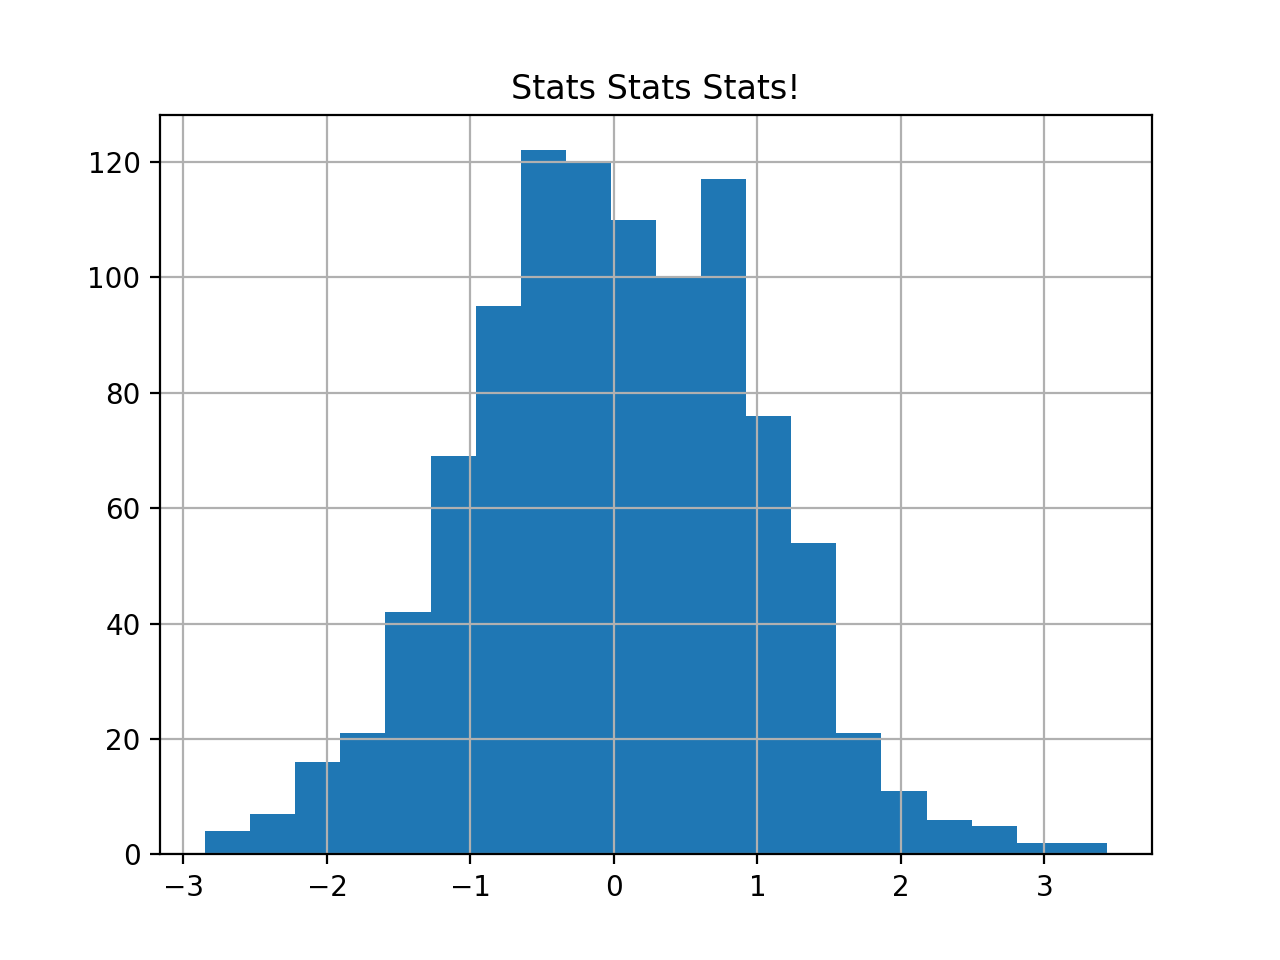
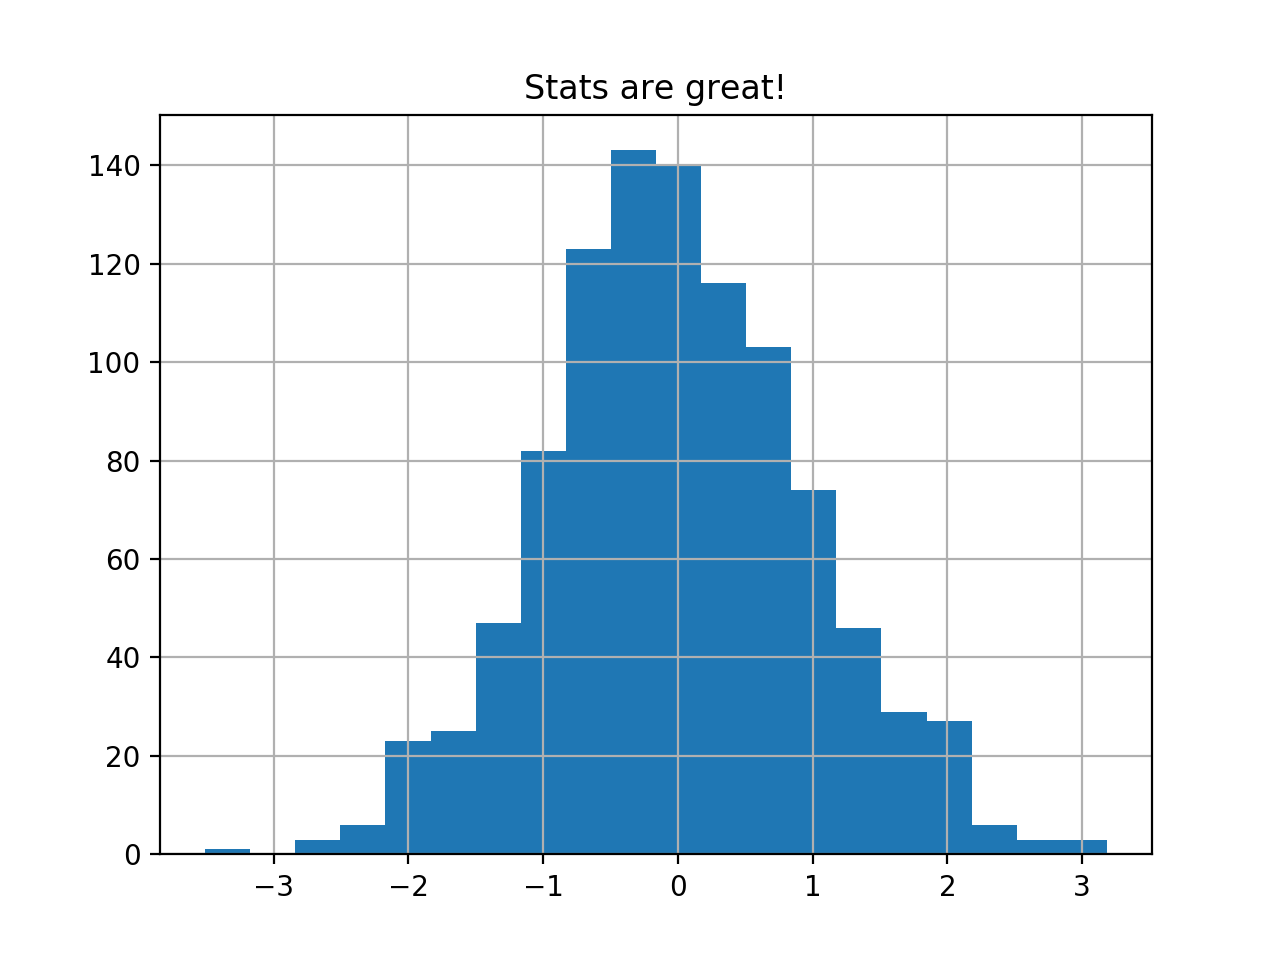
Generated gh-pages for commit 0297f25 Author: jerichooconnell <jericho.oconnell@gmail.com>
building and pushing docs

diff --git a/searchindex.js b/searchindex.js
@@ -1,1 +1,1 @@
-Search.setIndex({docnames:["includeme","index"],envversion:52,filenames:["includeme.rst","index.rst"],objects:{"ppmpy.ppm":{L_H_L_He_comparison:[0,1,1,""],analyse_dump:[0,1,1,""],bucket_map:[0,1,1,""],compare_entrained_material:[0,1,1,""],energy_comparison:[0,1,1,""],get_N2:[0,1,1,""],get_avg_rms_velocities:[0,1,1,""],get_heat_source:[0,1,1,""],get_mach_number:[0,1,1,""],get_mesa_time_evo:[0,1,1,""],get_p_top:[0,1,1,""],get_power_spectrum_RProfile:[0,1,1,""],get_r_int:[0,1,1,""],get_upper_bound:[0,1,1,""],get_v_evolution:[0,1,1,""],luminosity_for_dump:[0,1,1,""],make_colourmap:[0,1,1,""],plot_Mollweide:[0,1,1,""],plot_N2:[0,1,1,""],plot_boundary_evolution:[0,1,1,""],plot_diffusion_profiles:[0,1,1,""],plot_entr_v_ut:[0,1,1,""],plot_luminosity:[0,1,1,""],plot_mach_number:[0,1,1,""],plot_mesa_time_evo:[0,1,1,""],plot_p_top:[0,1,1,""],plot_power_spectrum_RProfile:[0,1,1,""],prep_Yprofile_data:[0,1,1,""],prof_compare:[0,1,1,""],set_YProf_path:[0,1,1,""],upper_bound_ut:[0,1,1,""],v_evolution:[0,1,1,""],yprofile:[0,2,1,""]},"ppmpy.ppm.yprofile":{Aprof_time:[0,3,1,""],Dinv:[0,3,1,""],Dov2:[0,3,1,""],Dov:[0,3,1,""],Dsolve:[0,3,1,""],Dsolvedown:[0,3,1,""],Dsolvedownexp:[0,3,1,""],Richardson_plot:[0,3,1,""],findFile:[0,3,1,""],get:[0,3,1,""],getCattrs:[0,3,1,""],getColData:[0,3,1,""],getCycleData:[0,3,1,""],getDCols:[0,3,1,""],getHattrs:[0,3,1,""],getHeaderData:[0,3,1,""],get_mass_fraction:[0,3,1,""],ndumpDict:[0,3,1,""],plot_entrainment_rates:[0,3,1,""],prof_time:[0,3,1,""],readTop:[0,3,1,""],tEkmax:[0,3,1,""],tvmax:[0,3,1,""],vaverage:[0,3,1,""],vprof_time:[0,3,1,""],vprofs:[0,3,1,""]},ppmpy:{ppm:[0,0,0,"-"]}},objnames:{"0":["py","module","Python module"],"1":["py","function","Python function"],"2":["py","class","Python class"],"3":["py","method","Python method"]},objtypes:{"0":"py:module","1":"py:function","2":"py:class","3":"py:method"},terms:{"00000e":0,"0420099999999999e":0,"0th":0,"0z1":0,"1146379199999996e":0,"17400e":0,"2017mnra":0,"2991j":0,"4816300000000004e":0,"50000e":0,"5829245098141646e":0,"61400e":0,"66054e":0,"69600e":0,"95450e":0,"boolean":0,"break":0,"case":0,"class":0,"default":0,"final":0,"float":0,"function":0,"import":0,"int":0,"new":0,"return":0,"transient":0,"true":0,ADS:0,Are:0,For:0,RMS:0,The:[0,1],There:0,These:1,Use:0,_cycl:0,abl:0,about:0,abov:0,abs:0,abund:0,access:[0,1],account:0,act:0,action:1,add:0,addit:0,adsab:0,advantag:1,after:0,against:0,agb:0,agbtp_m2:0,age:0,agearr:0,airmu:0,all:0,alpha:0,also:0,amount:0,amu:0,analys:[0,1],analyse_dump:0,analyz:0,andrassi:0,ani:[0,1],appli:0,appropri:0,approx_d:0,approxim:0,aprof_tim:0,area:0,argument:0,around:0,arrai:0,ascii:1,aslo:0,aspect:0,associ:0,assum:0,assumpt:1,atomicnoair:0,atomicnocld:0,atri:0,attri:0,attribut:1,automat:0,avail:1,averag:0,avg_r_int:0,avg_r_ub:0,axes:0,axi:0,base:[0,1],basemap:0,becaus:0,been:[0,1],befor:0,begin:0,below:0,between:0,blank:0,block:0,bluewat:0,bobaaa:0,bool:0,both:[0,1],bottom:0,boundari:0,brunt:0,bucket:0,bucket_map:0,bug:0,burn:0,burnt:0,calcul:0,can:[0,1],cant:0,cattri:0,center:0,certain:0,choic:0,choos:0,chose:0,cldmu:0,closest:0,cmap:0,code:1,coeffici:0,col:0,collabor:1,collaps:0,colon:0,color:0,colorbarbas:0,colormap:0,colour:0,colourbarbas:0,column:0,come:0,comma:0,commun:1,comp:0,compar:0,compare_entrained_materi:0,compon:0,compress:0,compressible_fluid:0,comput:0,condit:0,constant:0,contain:[0,1],content:1,contour:0,conv:0,convect:0,converg:0,core:0,correspond:0,could:0,creat:0,criterion:0,cyc:0,cycl:0,d10:0,d15:0,d20:0,d23:0,dash:0,data:0,data_path:0,datalist:0,davi:0,dcol:0,debug:0,decai:0,declin:0,defalut:0,defin:0,degre:0,depend:0,deriv:0,design:0,desir:0,desird:0,determin:0,develop:1,dictionari:0,differ:0,diffus:0,dinv:0,dir:0,directori:[0,1],discret:0,displai:0,dlayerbot:0,dlim:0,do_plot:0,domain:0,done:0,dov2:0,dov:0,draw:0,drawn:0,dsolv:0,dsolve_rang:0,dsolvedown:0,dsolvedownexp:0,due:0,dump1:0,dump2:0,dump:0,dump_max:0,dump_min:0,dump_to_plot:0,dure:0,dut:0,dutdr:0,dynam:0,each:0,ect:0,edu:0,ekmax:0,ekxzhhemax:0,els:0,email:0,endpoint:0,energi:0,energy_comparison:0,enforc:0,entrain:0,entri:0,enu:0,enuc:0,eppm:0,equal:0,equat:0,erg:0,error:0,estim:0,esur:0,even:0,everi:0,evolut:[0,1],examin:0,exampl:[0,1],exce:0,except:0,exclud:0,exp:0,explicit:0,explos:0,exponenti:0,extra:0,fals:0,feedback:1,few:0,fherwig:0,fifth:0,fig:0,figur:0,file:1,file_nam:0,filelist:0,filenam:0,filename_offset:0,filenamem:0,filepath:0,find:0,findfil:0,first:0,first_dump:0,fit:0,fit_bound:0,five:0,fix:0,fkair:0,fkcld:0,fluctuat:0,fluid:0,fname1:0,fname2:0,fname:0,fname_typ:0,fold:0,follow:0,form:0,format:[0,1],formula:0,found:0,foundat:1,four:0,fourth:0,fraction:0,frequenc:0,from:[0,1],full:0,futur:1,fvaverag:0,fvconv:0,gamma:0,gas:0,gener:0,geometri:0,get:0,get_avg_rms_veloc:0,get_heat_sourc:0,get_mach_numb:0,get_mass_fract:0,get_mesa_time_evo:0,get_n2:0,get_p_top:0,get_power_spectrum_rprofil:0,get_r_int:0,get_t:0,get_upper_bound:0,get_v_evolut:0,getcattr:0,getcoldata:0,getcycledata:0,getdcol:0,gethattr:0,getheaderdata:0,give:0,given:0,global:0,good:0,gosh:0,gradient:0,graviti:0,grid:0,harmon:0,harvard:0,has:[0,1],hattri:0,have:0,hdf5:1,head:0,header:1,heat:0,here:0,herwig:0,hist_dump_max:0,hist_dump_min:0,histogram:0,hold:0,horizont:0,how:0,http:0,humboldt:1,hydrodynam:0,ideal:0,ifig0:0,ifig:0,imag:0,includ:[0,1],incompress:0,index:[0,1],indic:0,inform:0,initi:0,initial_conv_boundari:0,input:[0,1],insert:0,insid:1,instanc:0,integ:0,integrate_both_fluid:0,interact:[0,1],interfac:0,intermitt:0,interpret:0,interv:0,invalid:0,invers:0,invert:0,inward:0,ipython:1,iter:0,its:[0,1],j55:0,jina:1,jone:0,just:0,kei:0,kinet:0,kwarg:0,l_h:0,l_h_l_he_comparison:0,l_h_rp:0,l_h_yp:0,l_he:0,l_max:0,label:0,label_cas:0,larger:0,largest:0,last:0,last_dump:0,length:0,like:0,lim:0,limit:0,lims1:0,lims2:0,lims_insert:0,line:0,linelim:0,linestyl:0,link:0,list:0,load:0,local:0,locat:0,log:[0,1],log_log:0,log_x:0,logarithm:0,logi:0,logic:0,logri_level:0,logs_n2b:0,loke:0,look:0,loss:0,lower:0,lowest:0,ls_offset:0,lsun:0,ltlarr:0,luminos:0,luminosity_for_dump:0,m25:0,m25z0:0,ma_max:0,mach:0,made:[0,1],mai:0,maintain:1,make:0,make_colourmap:0,mani:0,mark:0,markeveri:0,mass:0,match:0,materi:0,matplotlib:0,max:0,maximum:0,mean:0,measur:0,meb:0,member:1,mesa:[0,1],mesa_a_model_num:0,mesa_b_model_num:0,mesa_log:0,mesa_logs_path:0,mesa_model:0,mesa_path:0,mesa_profil:0,method:0,metric:0,middl:0,mimic:0,min:0,mind:1,minimum:0,minut:0,mix:0,mode:1,model:0,modul:[0,1],molecular:0,mollweid:0,monoton:0,more:0,most:0,mpl_toolkit:0,mppnp:1,muarr:0,multipl:0,must:0,n13:0,name:0,nasa:0,ncycl:0,ndump:0,ndumpdict:0,necessari:0,need:0,neg:0,neutrino:0,newton:0,next:0,niter:0,nois:0,none:0,normalis:0,note:0,notebook:1,nserc:1,nuclear:0,nugrid:[0,1],nugridpi:1,num:0,num_typ:0,number:0,numer:0,nump:0,numtyp:0,nunmber:0,object:0,off:0,offset:0,onc:0,one:0,onli:0,onset:0,open:0,option:0,ordin:0,orient:0,other:0,ouput_dir:0,out:1,output:[0,1],output_dir:0,over:0,oxygen:0,p_top:0,packag:[0,1],page:[0,1],paper:0,param:0,paramet:0,part:1,particular:1,pass:0,path:0,path_to_data:0,paul:0,pdf:0,peak:0,peakepsgravarr:0,peakl_lsunarr:0,peaklarr:0,place:0,pleas:0,plot:[0,1],plot_boundary_evolut:0,plot_diffusion_profil:0,plot_dlt0:0,plot_entr_v_ut:0,plot_entrainment_r:0,plot_luminos:0,plot_mach_numb:0,plot_mesa_time_evo:0,plot_mollweid:0,plot_n2:0,plot_p_top:0,plot_power_spectrum_rprofil:0,plot_typ:0,point:0,possabl:0,possibl:1,power:0,ppm:1,ppm_path:0,ppm_rpod2:0,ppmpy:0,ppmstar:0,ppn:1,preced:0,prefer:0,prefix:0,prep_yprofile_data:0,present:0,previou:0,principl:1,print:0,privat:0,produc:0,prof:0,prof_compar:0,prof_tim:0,profil:0,project:0,put:0,python:[0,1],quantiti:0,r_int:0,r_low:0,r_ref:0,r_top:0,r_ub:0,rad:0,radbas:0,radial:0,radii:0,radiu:0,radtop:0,rai:0,rang:0,range_conv1:0,range_conv2:0,raphson:0,rate:0,rbotarr:0,read:0,readtop:0,refer:0,refin:0,region:0,rel:0,remov:0,resolut:0,respect:0,returni:0,rgb:0,rho1:0,rho:0,richardson:0,richardson_plot:0,robust:0,routin:0,row:0,rp_set:0,rpod2:0,rpod3:0,rprof_path:0,rprofil:0,rprofile_set:0,rtop:0,rtoparr:0,run1:0,run2:0,run:0,runs_data:0,runs_dir:0,runthrough:0,sak:0,sak_a1:0,sakurai:0,same:0,sandalski:0,save:0,scale:0,search:[0,1],second:0,section:0,see:0,seen:0,select:0,sensit:0,separ:0,seper:0,sequenti:0,server:1,session:[0,1],set:0,set_yprof_path:0,setup:0,sever:0,shade:0,shell:0,should:0,show:0,show_fit:0,showfig:0,sigma:0,sigmam_r_int:0,sigmam_r_ub:0,sigmap_r_int:0,sigmap_r_ub:0,sign:0,silent:0,simpl:0,simpli:0,simul:0,singl:0,sinusoidal_fv:0,sixth:0,size:0,sldir:0,smaller:0,smooth:0,solut:0,solv:0,some:0,space:0,spars:0,spatial:0,speci:0,specif:0,specifi:0,spectra:0,speric:0,spheric:0,spline:0,squar:0,stabil:0,stamp:0,start:0,stddir:0,steepest:0,stellar:[0,1],stellar_model:0,step:0,stop:0,stratif:0,string:0,structur:0,stuff:0,style:0,sub:0,subplot:0,subpolot:0,support:1,suppress:0,swj:0,t_end:0,t_fit_start:0,t_lim:0,t_max:0,t_min:0,t_re:0,take:[0,1],taken:0,tangenti:0,tau:0,tauconv:0,tekmax:0,than:0,them:0,thermal:0,thesi:0,thi:0,thick:0,thing:0,third:0,three:0,threshold:0,through:1,thu:0,tick:0,time:0,timescal:0,titl:0,too:0,tool:1,top:0,tot:0,total:0,totallum:0,track:0,trade:0,transit:0,trescal:0,tri:1,tupl:0,turbul:0,turn:0,turnov:0,tvmax:0,two:0,txt:0,type:0,typic:0,unburnt:0,uniqu:0,unit:0,until:0,upper:0,upper_bound_ut:0,use:0,used:[0,1],user:0,uses:1,using:0,usual:0,util:0,uyconv:0,v_evolut:0,v_tot:0,v_xz:0,v_y:0,vaisala:0,valu:0,vanish:0,variabl:0,variou:[0,1],vaverag:0,vector:0,vel:0,veloc:0,veloctii:0,version:0,vertic:0,vicin:0,vltp_0:0,vltp_mesa_m0:0,vmax:0,vmin:0,vospac:0,vprof:0,vprof_tim:0,vr_max:0,vxz:0,wai:0,want:0,web:1,weight:0,welcom:1,well:0,wendi:1,were:[0,1],what:0,when:0,where:0,whether:0,which:0,which_to_plot:0,whole:0,width:0,window:0,wish:0,within:0,without:0,woodward:0,word:0,work:[0,1],would:0,write:1,written:1,xlim:0,xmax:0,xmin:0,xthing:0,xxxx:0,y_profil:0,yaxis_th:0,ylim:0,ylim_max:0,ymax:0,ymin:0,you:0,yp1:0,yp2:0,yprof:0,yprof_fnam:0,yprof_path:0,yprofil:1,yps:0,yrs:0,yy2:0,zone:0,zoom:0},titles:["PPM","PyPPM"],titleterms:{assumpt:0,attribut:0,file:0,header:0,indic:1,ppm:0,pyppm:1,tabl:1,yprofil:0}})
+Search.setIndex({docnames:["includeme","index"],envversion:52,filenames:["includeme.rst","index.rst"],objects:{"ppmpy.ppm":{L_H_L_He_comparison:[0,1,1,""],analyse_dump:[0,1,1,""],bucket_map:[0,1,1,""],compare_entrained_material:[0,1,1,""],energy_comparison:[0,1,1,""],get_N2:[0,1,1,""],get_avg_rms_velocities:[0,1,1,""],get_heat_source:[0,1,1,""],get_mach_number:[0,1,1,""],get_mesa_time_evo:[0,1,1,""],get_p_top:[0,1,1,""],get_power_spectrum_RProfile:[0,1,1,""],get_r_int:[0,1,1,""],get_upper_bound:[0,1,1,""],get_v_evolution:[0,1,1,""],luminosity_for_dump:[0,1,1,""],make_colourmap:[0,1,1,""],plot_Mollweide:[0,1,1,""],plot_N2:[0,1,1,""],plot_boundary_evolution:[0,1,1,""],plot_diffusion_profiles:[0,1,1,""],plot_entr_v_ut:[0,1,1,""],plot_luminosity:[0,1,1,""],plot_mach_number:[0,1,1,""],plot_mesa_time_evo:[0,1,1,""],plot_p_top:[0,1,1,""],plot_power_spectrum_RProfile:[0,1,1,""],prep_Yprofile_data:[0,1,1,""],prof_compare:[0,1,1,""],set_YProf_path:[0,1,1,""],upper_bound_ut:[0,1,1,""],v_evolution:[0,1,1,""],yprofile:[0,2,1,""]},"ppmpy.ppm.yprofile":{Aprof_time:[0,3,1,""],Dinv:[0,3,1,""],Dov2:[0,3,1,""],Dov:[0,3,1,""],Dsolve:[0,3,1,""],Dsolvedown:[0,3,1,""],Dsolvedownexp:[0,3,1,""],Richardson_plot:[0,3,1,""],findFile:[0,3,1,""],get:[0,3,1,""],getCattrs:[0,3,1,""],getColData:[0,3,1,""],getCycleData:[0,3,1,""],getDCols:[0,3,1,""],getHattrs:[0,3,1,""],getHeaderData:[0,3,1,""],get_mass_fraction:[0,3,1,""],ndumpDict:[0,3,1,""],plot_entrainment_rates:[0,3,1,""],prof_time:[0,3,1,""],readTop:[0,3,1,""],tEkmax:[0,3,1,""],tvmax:[0,3,1,""],vaverage:[0,3,1,""],vprof_time:[0,3,1,""],vprofs:[0,3,1,""]},ppmpy:{ppm:[0,0,0,"-"]}},objnames:{"0":["py","module","Python module"],"1":["py","function","Python function"],"2":["py","class","Python class"],"3":["py","method","Python method"]},objtypes:{"0":"py:module","1":"py:function","2":"py:class","3":"py:method"},terms:{"0420099999999999e":0,"0th":0,"0z1":0,"1146379199999996e":0,"2017mnra":0,"2991j":0,"4816300000000004e":0,"5829245098141646e":0,"61400e":0,"66054e":0,"boolean":0,"case":0,"class":0,"default":0,"final":0,"float":0,"function":0,"import":0,"int":0,"new":0,"return":0,"transient":0,"true":0,ADS:0,Are:0,For:0,RMS:0,The:[0,1],These:1,Use:0,_cycl:0,about:0,abov:0,abs:0,abund:0,access:[0,1],account:0,act:0,action:1,add:0,addit:0,adsab:0,advantag:1,against:0,agb:0,agbtp_m2:0,age:0,agearr:0,airmu:0,all:0,alpha:0,also:0,amount:0,amu:0,analys:[0,1],analyse_dump:0,analyz:0,andrassi:0,ani:[0,1],appli:0,appropri:0,approx_d:0,approxim:0,aprof_tim:0,area:0,argument:0,around:0,arrai:0,ascii:1,aspect:0,associ:0,assum:0,assumpt:1,atomicnoair:0,atomicnocld:0,atri:0,attri:0,attribut:0,automat:0,avail:1,averag:0,avg_r_int:0,avg_r_ub:0,axes:0,axi:0,base:[0,1],basemap:0,becaus:0,been:[0,1],begin:0,below:0,between:0,bluewat:0,bobaaa:0,bool:0,both:[0,1],bottom:0,boundari:0,brunt:0,bucket:0,bucket_map:0,bug:0,burn:0,burnt:0,calcul:0,can:[0,1],cattri:0,center:0,certain:0,choic:0,choos:0,chose:0,cldmu:0,closest:0,cmap:0,code:[0,1],coeffici:0,col:0,collabor:1,collaps:0,color:0,colorbarbas:0,colormap:0,colour:0,colourbarbas:0,column:0,commun:1,comp:0,compar:0,compare_entrained_materi:0,compon:0,compress:0,compressible_fluid:0,comput:0,condit:0,constant:0,contain:[0,1],content:1,contour:0,conv:0,convect:0,converg:0,core:0,correspond:0,could:0,creat:0,criterion:0,cyc:0,cycl:0,d10:0,d15:0,d20:0,d23:0,dash:0,data:0,data_path:0,datalist:0,davi:0,dcol:0,debug:0,decai:0,declin:0,defalut:0,defin:0,degre:0,depend:0,deriv:0,design:0,desir:0,desird:0,determin:0,develop:1,dictionari:0,differ:0,diffus:0,dinv:0,dir:0,directori:[0,1],discret:0,displai:0,dlayerbot:0,dlim:0,do_plot:0,domain:0,done:0,dov2:0,dov:0,draw:0,drawn:0,dsolv:0,dsolve_rang:0,dsolvedown:0,dsolvedownexp:0,due:0,dump1:0,dump2:0,dump:0,dump_max:0,dump_min:0,dump_to_plot:0,dure:0,dut:0,dutdr:0,dynam:0,each:0,ect:0,edu:0,ekmax:0,ekxzhhemax:0,els:0,email:0,endpoint:0,energi:0,energy_comparison:0,enforc:0,entrain:0,entri:0,enu:0,enuc:0,eppm:0,equat:0,erg:0,error:0,estim:0,esur:0,even:0,everi:0,evolut:[0,1],examin:0,exampl:[0,1],exce:0,except:0,exclud:0,exp:0,explicit:0,explos:0,exponenti:0,extra:0,fals:0,feedback:1,few:0,fherwig:0,fig:0,figur:0,file:1,file_nam:0,filelist:0,filenam:0,filename_offset:0,filenamem:0,filepath:0,find:0,findfil:0,first_dump:0,fit:0,fit_bound:0,fix:0,fkair:0,fkcld:0,fluctuat:0,fluid:0,fname1:0,fname2:0,fname:0,fname_typ:0,fold:0,format:[0,1],formula:0,found:0,foundat:1,fraction:0,frequenc:0,from:[0,1],full:0,futur:1,fvaverag:0,fvconv:0,gamma:0,gas:0,gener:0,geometri:0,get:0,get_avg_rms_veloc:0,get_heat_sourc:0,get_mach_numb:0,get_mass_fract:0,get_mesa_time_evo:0,get_n2:0,get_p_top:0,get_power_spectrum_rprofil:0,get_r_int:0,get_t:0,get_upper_bound:0,get_v_evolut:0,getcattr:0,getcoldata:0,getcycledata:0,getdcol:0,gethattr:0,getheaderdata:0,give:0,given:0,global:0,good:0,gosh:0,gradient:0,grid:0,harmon:0,harvard:0,has:1,hattri:0,have:0,hdf5:1,head:0,header:0,heat:0,here:0,herwig:0,hire:0,hist_dump_max:0,hist_dump_min:0,histogram:0,hold:0,horizont:0,how:0,http:0,humboldt:1,hydrodynam:0,ideal:0,ifig0:0,ifig:0,imag:0,includ:[0,1],incompress:0,index:[0,1],indic:0,inform:0,initi:0,initial_conv_boundari:0,input:[0,1],insert:0,insid:1,instanc:0,integ:0,integrate_both_fluid:0,interact:[0,1],interfac:0,intermitt:0,interpret:0,interv:0,invalid:0,invers:0,invert:0,inward:0,ipython:1,iter:0,its:1,j55:0,jina:1,jone:0,just:0,kei:0,kinet:0,kwarg:0,l_h:0,l_h_l_he_comparison:0,l_h_rp:0,l_h_yp:0,l_he:0,l_max:0,label:0,label_cas:0,larger:0,largest:0,last:0,last_dump:0,length:0,like:0,lim:0,limit:0,lims1:0,lims2:0,lims_insert:0,line:0,linelim:0,linestyl:0,link:0,list:0,load:0,local:0,locat:0,log:[0,1],log_log:0,log_x:0,logarithm:0,logi:0,logic:0,logri_level:0,logs_n2b:0,loke:0,look:0,loss:0,lower:0,lowest:0,ls_offset:0,lsun:0,ltlarr:0,luminos:0,luminosity_for_dump:0,m25:0,m25z0:0,ma_max:0,mach:0,made:[0,1],mai:0,maintain:1,make:0,make_colourmap:0,mani:0,mark:0,markeveri:0,mass:0,match:0,materi:0,matplotlib:0,max:0,maximum:0,mean:0,meb:0,member:1,mesa:[0,1],mesa_a_model_num:0,mesa_b_model_num:0,mesa_log:0,mesa_logs_path:0,mesa_model:0,mesa_path:0,mesa_profil:0,method:0,metric:0,middl:0,mimic:0,min:0,mind:1,minimum:0,minut:0,mix:0,mode:1,model:0,modul:[0,1],molecular:0,mollweid:0,monoton:0,more:0,most:0,mpl_toolkit:0,mppnp:1,muarr:0,multipl:0,must:0,n13:0,name:0,nasa:0,ncycl:0,ndump:0,ndumpdict:0,necessari:0,need:0,neg:0,neutrino:0,newton:0,niter:0,nois:0,none:0,normalis:0,note:0,notebook:1,nserc:1,nuclear:0,nugrid:[0,1],nugridpi:1,num:0,num_typ:0,number:0,nump:0,numtyp:0,nunmber:0,object:0,off:0,offset:0,onc:0,one:0,onli:0,onset:0,open:0,option:0,ordin:0,orient:0,ouput_dir:0,out:1,output:[0,1],output_dir:0,over:0,oxygen:0,p_top:0,packag:[0,1],page:[0,1],paper:0,param:0,paramet:0,part:1,particular:1,pass:0,path:0,path_to_data:0,paul:0,pdf:0,peak:0,peakepsgravarr:0,peakl_lsunarr:0,peaklarr:0,pleas:0,plot:[0,1],plot_boundary_evolut:0,plot_diffusion_profil:0,plot_dlt0:0,plot_entr_v_ut:0,plot_entrainment_r:0,plot_luminos:0,plot_mach_numb:0,plot_mesa_time_evo:0,plot_mollweid:0,plot_n2:0,plot_p_top:0,plot_power_spectrum_rprofil:0,plot_typ:0,png:0,point:0,possabl:0,possibl:1,power:0,ppm:1,ppm_path:0,ppm_rpod2:0,ppmpy:0,ppmstar:0,ppn:1,prefer:0,prefix:0,prep_yprofile_data:0,present:0,principl:1,print:0,privat:0,produc:0,prof:0,prof_compar:0,prof_tim:0,profil:0,project:0,put:0,python:[0,1],quantiti:0,r_int:0,r_low:0,r_ref:0,r_top:0,r_ub:0,rad:0,radbas:0,radial:0,radii:0,radiu:0,radtop:0,rai:0,rang:0,range_conv1:0,range_conv2:0,raphson:0,rate:0,rbotarr:0,read:0,readtop:0,refer:0,refin:0,region:0,rel:0,remov:0,resolut:0,respect:0,returni:0,rgb:0,rho1:0,rho:0,richardson:0,richardson_plot:0,robust:0,routin:0,rp_set:0,rpod2:0,rpod3:0,rprof_path:0,rprofil:0,rprofile_set:0,rtop:0,rtoparr:0,run1:0,run2:0,run:0,runs_data:0,runs_dir:0,runthrough:0,sak:0,sak_a1:0,sakurai:0,same:0,sandalski:0,save:0,scale:0,search:[0,1],second:0,section:0,see:0,seen:0,select:0,sensit:0,separ:0,seper:0,sequenti:0,server:1,session:[0,1],set:0,set_yprof_path:0,setup:0,sever:0,shade:0,shell:0,should:0,show:0,show_fit:0,showfig:0,sigma:0,sigmam_r_int:0,sigmam_r_ub:0,sigmap_r_int:0,sigmap_r_ub:0,silent:0,simpl:0,simpli:0,simul:0,singl:0,sinusoidal_fv:0,size:0,sldir:0,smaller:0,smooth:0,solut:0,solv:0,some:0,sourc:0,space:0,spars:0,spatial:0,speci:0,specif:0,specifi:0,spectra:0,speric:0,spheric:0,spline:0,squar:0,stamp:0,start:0,stddir:0,steepest:0,stellar:[0,1],stellar_model:0,step:0,stop:0,stratif:0,string:0,structur:0,style:0,subplot:0,subpolot:0,support:1,suppress:0,swj:0,t_end:0,t_fit_start:0,t_lim:0,t_max:0,t_min:0,t_re:0,take:[0,1],taken:0,tangenti:0,tau:0,tauconv:0,tekmax:0,than:0,them:0,thermal:0,thesi:0,thi:0,three:0,threshold:0,through:1,thu:0,tick:0,time:0,timescal:0,titl:0,too:0,tool:1,top:0,tot:0,total:0,totallum:0,track:0,trade:0,trescal:0,tri:1,tupl:0,turbul:0,turnov:0,tvmax:0,two:0,txt:0,type:0,typic:0,unburnt:0,unit:0,until:0,upper:0,upper_bound_ut:0,use:0,used:[0,1],user:0,uses:1,using:0,usual:0,util:0,uyconv:0,v_evolut:0,v_tot:0,v_xz:0,v_y:0,vaisala:0,valu:0,vanish:0,variabl:0,variou:[0,1],vaverag:0,vector:0,vel:0,veloc:0,veloctii:0,version:0,vertic:0,vicin:0,vltp_0:0,vltp_mesa_m0:0,vmax:0,vmin:0,vospac:0,vprof:0,vprof_tim:0,vr_max:0,vxz:0,want:0,web:1,weight:0,welcom:1,well:0,wendi:1,were:1,what:0,when:0,where:0,whether:0,which:0,which_to_plot:0,whole:0,width:0,window:0,wish:0,woodward:0,work:[0,1],would:0,write:1,written:1,xlim:0,xmax:0,xmin:0,xthing:0,xxxx:0,y_profil:0,yaxis_th:0,ylim:0,ylim_max:0,ymax:0,ymin:0,you:0,yp1:0,yp2:0,yprof:0,yprof_fnam:0,yprof_path:0,yprofil:1,yps:0,yrs:0,yy2:0,zone:0,zoom:0},titles:["PPM","PyPPM"],titleterms:{assumpt:0,file:0,indic:1,ppm:0,pyppm:1,tabl:1,yprofil:0}})

diff --git a/includeme.html b/includeme.html
@@ -49,62 +49,6 @@ directory contains some YProfile files.</p>
 <p>If the user find any bugs or errors, please email us.</p>
 <div class="section" id="yprofile-files-assumptions">
 <h2>Yprofile files Assumptions<a class="headerlink" href="#yprofile-files-assumptions" title="Permalink to this headline">¶</a></h2>
-<ul class="simple">
-<li>labeled as YProfile-01-xxxx.bobaaa and the xxxx is the NDump that is
-located within each file.</li>
-<li>There can be a maximum of 9999 files in each directory.  The first 10
-lines of each file are the only place where header data is uniquely
-located.</li>
-<li>Header data is separated by five spaces and line breaks.</li>
-<li>An attribute cant be in the form of a number, ie if the user is able
-to ‘float(attribute)’ (in python) without an error attribute will not
-be returned.</li>
-<li>A row of column Names or Cycle Names is preceded and followed by a
-blank line.</li>
-<li>A block of data values are preceded and followed by a blank line
-except the last data block in the file, where it is not followed by a
-blank line.</li>
-<li>In the YProfile file, if a line of attributes contains the attribute
-Ndump, then that line of attributes and any other following lines of
-attributes in the file are cycle attributes.</li>
-</ul>
-</div>
-<div class="section" id="header-attribute-assumptions">
-<h2>Header Attribute Assumptions<a class="headerlink" href="#header-attribute-assumptions" title="Permalink to this headline">¶</a></h2>
-<ul class="simple">
-<li>Header attributes are separated by lines and instances of four spaces
-(    )</li>
-<li>Header attribute come in one of below here are things that do stuff
-with the data 6 types.</li>
-<li>The first type is the first attribute in the file. It is formatted in
-such a way that the name of the attribute is separated from its
-associated data with an equals sign ex.
-Stellar Conv. Luminosity =  1.61400E-02 x 10^43 ergs,</li>
-<li>The second type is when an attribute contains the sub string ‘grid;’.
-It is formatted in such a way such that there are 3 numerical values
-separated by ‘x’ which are then followed by the string ‘ grid;’ ex.
-384 x 384 x 384 grid;</li>
-<li>The third type is were name of the attribute is separated from its
-associated data with an equals sign.  Also that data may be followed
-by a unit of measurement. ex.
-Thickness (Mm) of heating shell =  1.00000E+00</li>
-<li>The fourth type is when an attribute contains a colon.  The String
-before the colon is the title of the attribute.  After the colon there
-is a list of n sub attributes, each with a sub title, and separated by
-its value with an equals sign.  Aslo each sub attribute is separated
-by a comma ex.
-At base of the convection zone:  R =  9.50000E+00,  g =  4.95450E-01,
-rho =  1.17400E+01,  p =  1.69600E+01</li>
-<li>The fifth is when an attribute starts with ‘and’.  after the and, the
-next word after has to be the same as one word contained in the
-previous attribute ex.
-and of transition from convection to stability =  5.00000E-01  at
-R =  3.00000E+01 Mm.</li>
-<li>The sixth is when there is a string or attribute title followed by two
-spaces followed by one value followed by two spaces followed by an
-‘and’ which is then followed by a second Value ex.
-Gravity turns on between radii   6.00000E+00  and   7.00000E+00  Mm.</li>
-</ul>
 <p class="rubric">Examples</p>
 <p>Here is an example runthrough.</p>
 <div class="highlight-default"><div class="highlight"><pre><span></span><span class="gp">&gt;&gt;&gt; </span><span class="kn">from</span> <span class="nn">ppm</span> <span class="k">import</span> <span class="o">*</span>
@@ -133,8 +77,9 @@ Gravity turns on between radii   6.00000E+00  and   7.00000E+00  Mm.</li>
 </pre></div>
 </div>
 <p>and</p>
-<div class="highlight-default"><div class="highlight"><pre><span></span><span class="gp">&gt;&gt;&gt; </span><span class="n">p</span><span class="o">.</span><span class="n">plot</span><span class="p">(</span><span class="s1">&#39;j&#39;</span><span class="p">,</span><span class="s1">&#39;FVconv&#39;</span><span class="p">)</span>
-</pre></div>
+<p>(<a class="reference external" href=".//includeme-1.py">Source code</a>, <a class="reference external" href=".//includeme-1.png">png</a>, <a class="reference external" href=".//includeme-1.hires.png">hires.png</a>, <a class="reference external" href=".//includeme-1.pdf">pdf</a>)</p>
+<div class="figure">
+<img alt="_images/includeme-1.png" src="_images/includeme-1.png" />
 </div>
 <p>plots the data.</p>
 <dl class="function">

diff --git a/index.html b/index.html
@@ -51,7 +51,6 @@
 <ul>
 <li class="toctree-l1"><a class="reference internal" href="includeme.html">PPM</a><ul>
 <li class="toctree-l2"><a class="reference internal" href="includeme.html#yprofile-files-assumptions">Yprofile files Assumptions</a></li>
-<li class="toctree-l2"><a class="reference internal" href="includeme.html#header-attribute-assumptions">Header Attribute Assumptions</a></li>
 </ul>
 </li>
 </ul>

diff --git a/includeme-1.py b/includeme-1.py
@@ -3,4 +3,4 @@ import numpy as np
 x = np.random.randn(1000)
 plt.hist( x, 20)
 plt.grid()
-plt.title("Stats Stats Stats!")
+plt.title("Stats are great!")
